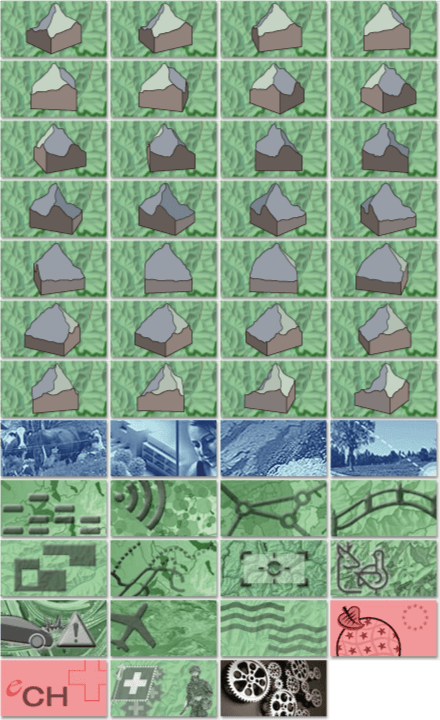
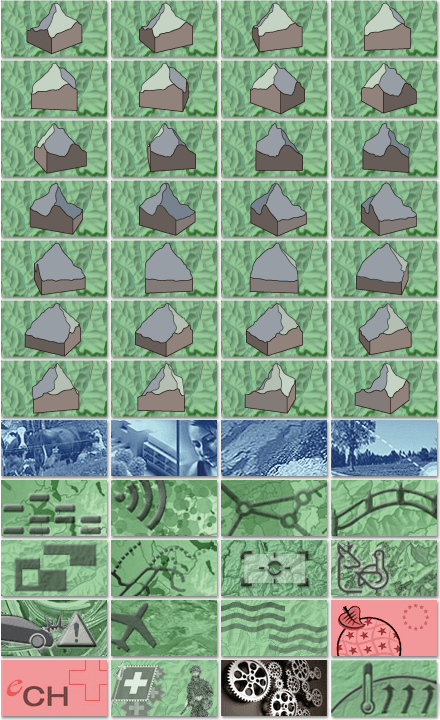
add img for new topic geothermie

diff --git a/src/components/topic/style/topic.less b/src/components/topic/style/topic.less
@@ -84,9 +84,13 @@
     background-position: -220px -660px;
   }
 
+  .ga-topics-sprite-geothermie  {
+    background-position: -330px -660px;
+  }
+
   .ga-topics-sprite-dev {
     .animation(~"play1 2.45s steps(7) infinite, play2 0.35s steps(4) infinite");
-  } 
+  }
 
   .play1-frames () {
     0%   { background-position-y: 0px; }
